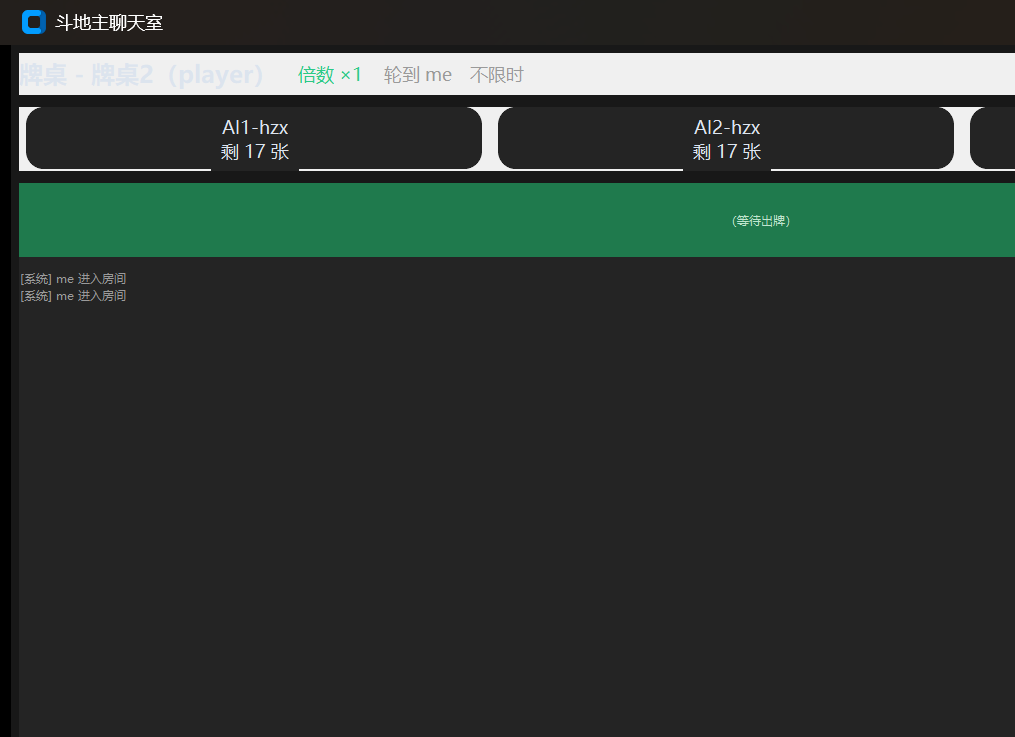
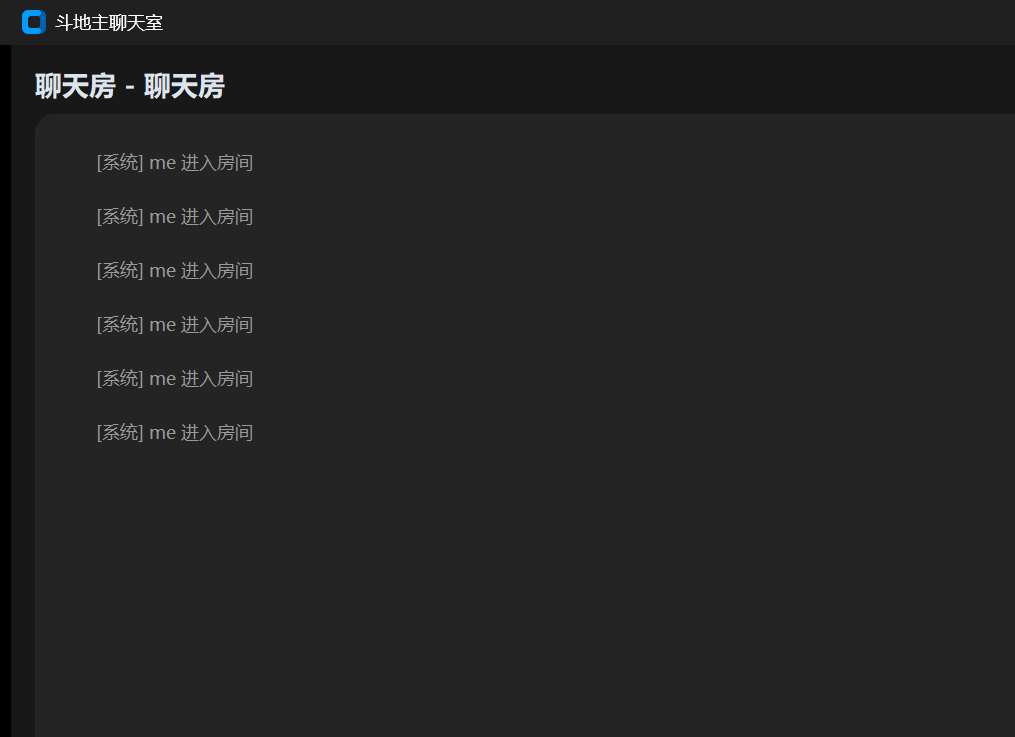
fix(ui): 补齐深色配色覆盖，消除默认浅灰色块（根因：Windows 上 ttk 默认 vista 主题会忽略 background 配置，需先切 clam；同时配齐边框亮/暗色、标签、按钮、输入框、下拉、滚动条与禁用态；根窗口底色与内容一致；实测牌桌页系统灰占比 5.76% → 0.02%）

Changed region(s): [[0.0, 0.0624, 1.0, 0.4681], [0.0916, 0.5617, 0.2443, 0.5929], [0.0916, 0.4993, 0.2443, 0.5305]]

diff --git a/client/ui_ctk.py b/client/ui_ctk.py
@@ -69,12 +69,41 @@ def apply_theme(appearance: str = "dark", theme: str = "green") -> None:
 
 
 def style_ttk(style) -> None:
-    """把牌桌里保留的 ttk 容器调成同一套深色，避免两套风格割裂。"""
-    style.configure("Ctk.TFrame", background=APP_BG)
-    style.configure("CtkCard.TFrame", background=CARD_BG)
-    style.configure("Ctk.TLabelframe", background=APP_BG, borderwidth=0)
+    """把牌桌里保留的 ttk 控件调成同一套深色，避免出现浅灰色块。
+
+    关键点：Windows 上 ttk 默认用 `vista` 主题，它**会忽略 background 之类的配置**，
+    所以必须先切到 `clam`，深色才会真正生效；同时要把边框的亮/暗色一起配掉，
+    否则 clam 会画出浅色的 3D 边框。
+    """
+    try:
+        style.theme_use("clam")
+    except Exception:  # pragma: no cover - 主题名异常时保持原样
+        pass
+
+    flat = {"borderwidth": 0, "relief": "flat"}
+    edge = {"bordercolor": CARD_BG_2, "lightcolor": CARD_BG_2, "darkcolor": CARD_BG_2}
+
+    style.configure("TFrame", background=APP_BG, **flat)
+    style.configure("Ctk.TFrame", background=APP_BG, **flat)
+    style.configure("CtkCard.TFrame", background=CARD_BG, **flat)
+    style.configure("TLabel", background=APP_BG, foreground=TEXT, **flat)
+    style.configure("Ctk.TLabel", background=APP_BG, foreground=TEXT_MUTED, **flat)
+    style.configure("CtkCard.TLabel", background=CARD_BG, foreground=TEXT, **flat)
+    style.configure("TLabelframe", background=APP_BG, **edge)
+    style.configure("TLabelframe.Label", background=APP_BG, foreground=TEXT_MUTED)
+    style.configure("Ctk.TLabelframe", background=APP_BG, **edge)
     style.configure("Ctk.TLabelframe.Label", background=APP_BG, foreground=TEXT_MUTED)
-    style.configure("Ctk.TLabel", background=APP_BG, foreground=TEXT_MUTED)
+    # 下面几类当前皮肤用不到，一并配好：以后混用不会再冒出浅色块
+    style.configure("TButton", background=CARD_BG_2, foreground=TEXT, focuscolor=ACCENT, **edge)
+    style.map("TButton", background=[("active", ACCENT_HOVER), ("disabled", CARD_BG)],
+              foreground=[("disabled", TEXT_MUTED)])
+    style.configure("TEntry", fieldbackground=CARD_BG_2, foreground=TEXT, insertcolor=TEXT, **edge)
+    style.configure("TCombobox", fieldbackground=CARD_BG_2, background=CARD_BG_2,
+                    foreground=TEXT, arrowcolor=TEXT, **edge)
+    style.map("TCombobox", fieldbackground=[("readonly", CARD_BG_2)],
+              foreground=[("readonly", TEXT)])
+    style.configure("Vertical.TScrollbar", background=CARD_BG_2, troughcolor=APP_BG,
+                    bordercolor=APP_BG, arrowcolor=TEXT)
 
 
 # ------------------------------------------------------------ 登录页 ----
@@ -143,6 +172,8 @@ class LobbyFrame(ctk.CTkFrame):
         ctk.CTkLabel(left, text="房间（点一下直接进入）", font=ctk.CTkFont(*FONT_SUB),
                      text_color=TEXT_MUTED).pack(anchor="w", padx=12, pady=(10, 4))
         self.rooms_box = ctk.CTkScrollableFrame(left, fg_color="transparent")
+        self.rooms_box.configure(scrollbar_button_color=CARD_BG_2,
+                                 scrollbar_button_hover_color=ACCENT_HOVER)
         self.rooms_box.pack(fill="both", expand=True, padx=6, pady=(0, 8))
         ctk.CTkButton(left, text="刷新房间", width=110, fg_color=CARD_BG_2, hover_color="#3A3A3A",
                       command=self._refresh).pack(anchor="w", padx=12, pady=(0, 12))
@@ -152,6 +183,8 @@ class LobbyFrame(ctk.CTkFrame):
         ctk.CTkLabel(right, text="在线用户", font=ctk.CTkFont(*FONT_SUB),
                      text_color=TEXT_MUTED).pack(anchor="w", padx=12, pady=(10, 4))
         self.users_box = ctk.CTkScrollableFrame(right, fg_color="transparent")
+        self.users_box.configure(scrollbar_button_color=CARD_BG_2,
+                                 scrollbar_button_hover_color=ACCENT_HOVER)
         self.users_box.pack(fill="both", expand=True, padx=6, pady=(0, 12))
 
     # ---------- 事件 ----------
@@ -210,12 +243,16 @@ class RoomFrame(ctk.CTkFrame):
 
         self.messages = ctk.CTkScrollableFrame(body, fg_color=CARD_BG, corner_radius=14)
         self.messages.pack(side="left", fill="both", expand=True)
+        self.messages.configure(scrollbar_button_color=CARD_BG_2,
+                                scrollbar_button_hover_color=ACCENT_HOVER)
 
         side = ctk.CTkFrame(body, fg_color=CARD_BG, corner_radius=14, width=180)
         side.pack(side="left", fill="y", padx=(12, 0))
         ctk.CTkLabel(side, text="房间里的人（选中可私信）", font=ctk.CTkFont("Microsoft YaHei UI", 10),
                      text_color=TEXT_MUTED).pack(anchor="w", padx=10, pady=(10, 4))
         self.users_box = ctk.CTkScrollableFrame(side, fg_color="transparent", width=150)
+        self.users_box.configure(scrollbar_button_color=CARD_BG_2,
+                                 scrollbar_button_hover_color=ACCENT_HOVER)
         self.users_box.pack(fill="y", expand=True, padx=6, pady=(0, 8))
         self._selected_user: str | None = None
         self.whisper_hint = ctk.CTkLabel(side, text="未选中用户", font=ctk.CTkFont("Microsoft YaHei UI", 10),
@@ -367,6 +404,10 @@ def make_table_frame():
             self.chat_target = ctk.CTkComboBox(chat_row, values=["（发到房间）"], width=140,
                                                fg_color=CARD_BG_2, border_width=0,
                                                button_color=CARD_BG_2, button_hover_color=ACCENT_HOVER,
+                                               dropdown_fg_color=CARD_BG_2,
+                                               dropdown_hover_color=ACCENT_HOVER,
+                                               dropdown_text_color=TEXT,
+                                               text_color=TEXT,
                                                command=lambda _v: None)
             self.chat_target.set("（发到房间）")
             self.chat_target.pack(side="left")

diff --git a/client/app.py b/client/app.py
@@ -62,6 +62,7 @@ class ChatApp(ui_ctk.root_class() if UI_CTK_ENABLED else tk.Tk):  # [UI-CTK]
         self.container.pack(fill="both", expand=True)
         if UI_CTK_ENABLED:  # [UI-CTK] CustomTkinter 皮肤
             ui_ctk.apply_theme()
+            self.configure(fg_color=ui_ctk.APP_BG)   # 根窗口底色与内容一致，避免留出浅色边
             ui_ctk.style_ttk(ttk.Style())
             self.container.configure(style="Ctk.TFrame")
             self.frames = {
